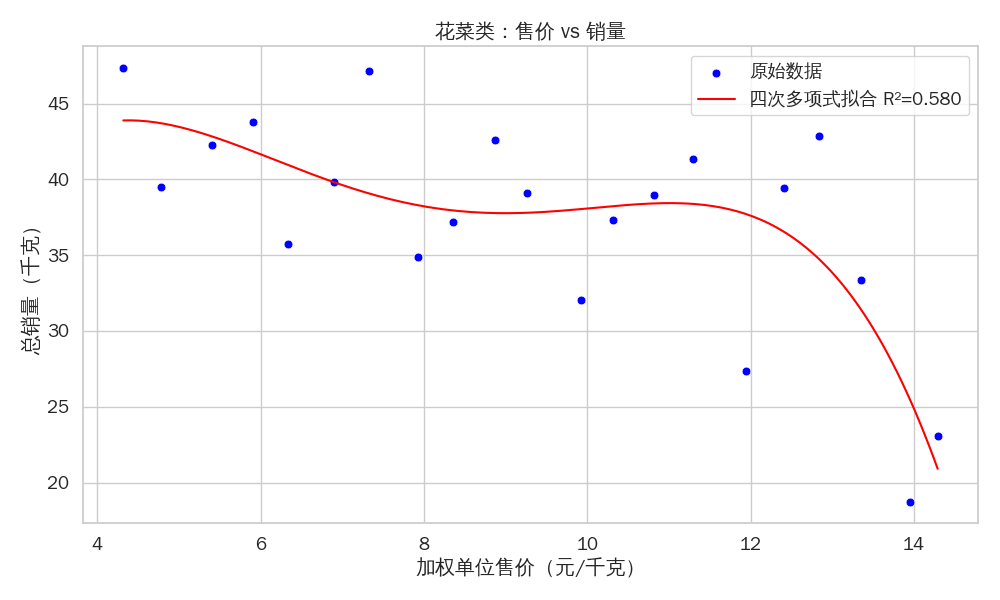
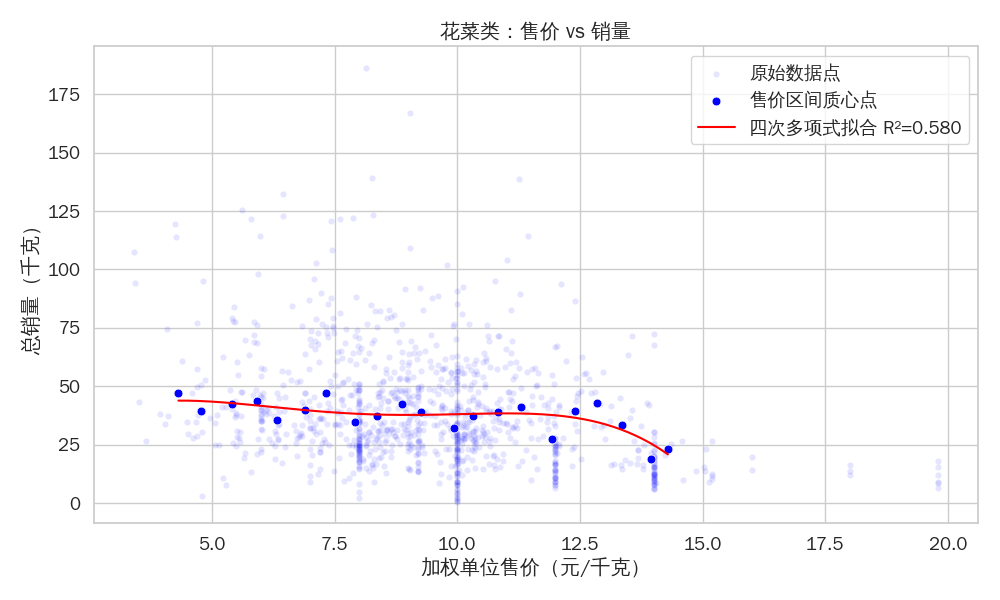
背景加入

diff --git a/Q2_Virtual.py b/Q2_Virtual.py
@@ -153,8 +153,15 @@ for category in df['分类名称'].unique():
 
     # 绘图
     plt.figure(figsize=(10, 6))
-    sns.scatterplot(x=x, y=y, s=40, color='blue', label="原始数据")
+    
+    # 原始数据点（透明显示，表达数据分布）
+    sns.scatterplot(x=data['加权单位售价'].values, y=data['总销量'].values,
+                    s=20, color='blue', alpha=0.1, label="原始数据点")
 
+    # 质心点（可见）
+    sns.scatterplot(x=x, y=y, s=40, color='blue', label="售价区间质心点")
+
+    # 拟合曲线（基于质心）
     if best_func is not None:
         x_fit = np.linspace(x.min(), x.max(), 200)
         y_fit = best_func(x_fit, *best_params)
@@ -169,3 +176,4 @@ for category in df['分类名称'].unique():
     plt.close()
 
     print(f"✅ 图像保存完成：{category}_售价_vs_销量_拟合图-质心.png\n")
+
